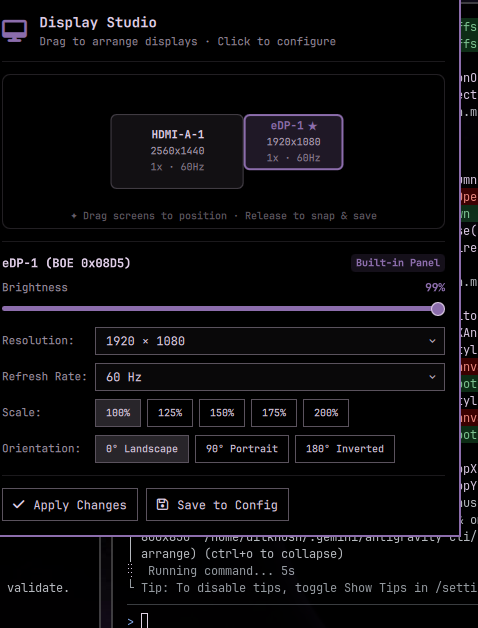
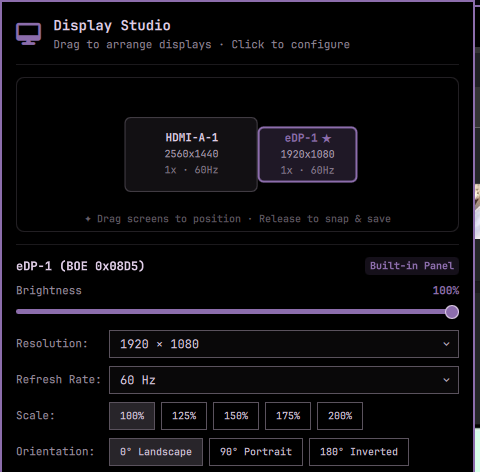
Remove manual apply/save buttons in favor of seamless auto-save

Changed region(s): [[0.0, 0.0, 1.0, 1.0], [0.4393, 0.0593, 0.7322, 0.1186], [0.205, 0.2076, 0.2343, 0.2966]]

diff --git a/Panel.qml b/Panel.qml
@@ -450,11 +450,12 @@ Panel {
 
             Text {
               textFormat: Text.PlainText
-              text: strings.t("display.subtitle")
-              color: root.foreground
-              opacity: 0.65
+              text: root.statusMessage !== "" ? root.statusMessage : strings.t("display.subtitle")
+              color: root.statusMessage !== "" ? root.accentColor : root.foreground
+              opacity: root.statusMessage !== "" ? 1.0 : 0.65
               font.family: root.fontFamily
               font.pixelSize: Style.font.bodySmall
+              font.bold: root.statusMessage !== ""
             }
           }
         }
@@ -915,42 +916,6 @@ Panel {
                 onClicked: root.setTransform(2)
               }
             }
-          }
-        }
-
-        PanelSeparator { foreground: root.foreground }
-
-        // Action Buttons Row & Status Label
-        Row {
-          width: parent.width
-          spacing: Style.space(8)
-
-          Button {
-            text: strings.t("display.apply")
-            iconText: "\uf00c"
-            foreground: root.foreground
-            fontFamily: root.fontFamily
-            bordered: true
-            onClicked: root.applyLayout()
-          }
-
-          Button {
-            text: strings.t("display.save")
-            iconText: "\uf0c7"
-            foreground: root.foreground
-            fontFamily: root.fontFamily
-            bordered: true
-            onClicked: root.saveLayout()
-          }
-
-          Text {
-            textFormat: Text.PlainText
-            text: root.statusMessage
-            color: root.accentColor
-            font.family: root.fontFamily
-            font.pixelSize: Style.font.bodySmall
-            font.bold: true
-            anchors.verticalCenter: parent.verticalCenter
           }
         }
       }
